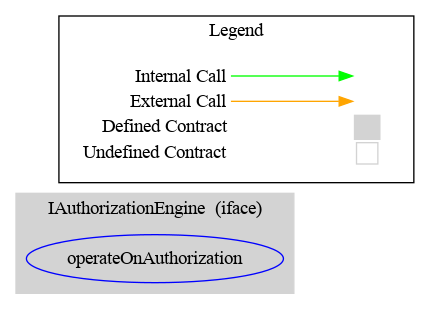
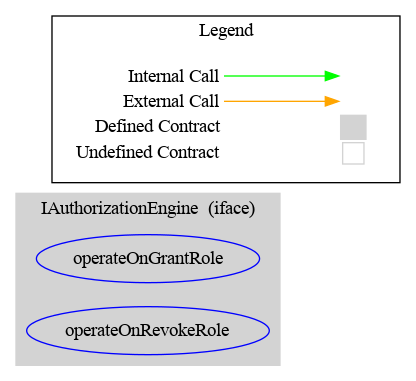
update doc

Changed region(s): [[0.0312, 0.0291, 0.9688, 0.9612], [0.1875, 0.3786, 0.5312, 0.4369], [0.8125, 0.5243, 0.875, 0.5534]]

diff --git a/test/common/ERC20BurnModuleCommon.js b/test/common/ERC20BurnModuleCommon.js
@@ -183,9 +183,9 @@ function ERC20BurnModuleCommon (admin, address1, address2, address3) {
       const AMOUNT_TO_MINT = BN(15)
       await this.cmtat.grantRole(BURNER_ROLE, address2, { from: admin })
       await this.cmtat.grantRole(MINTER_ROLE, address2, { from: admin })
-      //await this.cmtat.approve(address2, 50, { from: address1 })
+      // await this.cmtat.approve(address2, 50, { from: address1 })
       // Act
-      this.logs = await this.cmtat.burnAndMint(address1, address3, AMOUNT_TO_BURN, AMOUNT_TO_MINT, "recovery", { from: address2 })
+      this.logs = await this.cmtat.burnAndMint(address1, address3, AMOUNT_TO_BURN, AMOUNT_TO_MINT, 'recovery', { from: address2 })
       // Assert
       expectEvent(this.logs, 'Transfer', {
         from: address1,
@@ -197,12 +197,12 @@ function ERC20BurnModuleCommon (admin, address1, address2, address3) {
         to: address3,
         value: AMOUNT_TO_MINT
       })
-      
+
       expectEvent(this.logs, 'Burn', {
         owner: address1,
         value: AMOUNT_TO_BURN,
-        reason: "recovery" 
-      });
+        reason: 'recovery'
+      })
 
       expectEvent(this.logs, 'Mint', {
         account: address3,
@@ -218,10 +218,10 @@ function ERC20BurnModuleCommon (admin, address1, address2, address3) {
       const AMOUNT_TO_BURN = BN(20)
       const AMOUNT_TO_MINT = BN(15)
       await this.cmtat.grantRole(BURNER_ROLE, address2, { from: admin })
-      //await this.cmtat.approve(address2, 50, { from: address1 })
+      // await this.cmtat.approve(address2, 50, { from: address1 })
       // Act
       await expectRevertCustomError(
-        this.cmtat.burnAndMint(address1, address3, AMOUNT_TO_BURN, AMOUNT_TO_MINT, "recovery", { from: address2 }),
+        this.cmtat.burnAndMint(address1, address3, AMOUNT_TO_BURN, AMOUNT_TO_MINT, 'recovery', { from: address2 }),
         'AccessControlUnauthorizedAccount',
         [address2, MINTER_ROLE])
     })
@@ -231,15 +231,14 @@ function ERC20BurnModuleCommon (admin, address1, address2, address3) {
       const AMOUNT_TO_BURN = BN(20)
       const AMOUNT_TO_MINT = BN(15)
       await this.cmtat.grantRole(MINTER_ROLE, address2, { from: admin })
-      //await this.cmtat.approve(address2, 50, { from: address1 })
+      // await this.cmtat.approve(address2, 50, { from: address1 })
       // Assert
       await expectRevertCustomError(
-        this.cmtat.burnAndMint(address1, address3, AMOUNT_TO_BURN, AMOUNT_TO_MINT, "recovery", { from: address2 }),
+        this.cmtat.burnAndMint(address1, address3, AMOUNT_TO_BURN, AMOUNT_TO_MINT, 'recovery', { from: address2 }),
         'AccessControlUnauthorizedAccount',
         [address2, BURNER_ROLE])
     })
   })
-
 
   context('burnBatch', function () {
     const REASON = 'BURN_TEST'

diff --git a/test/common/AuthorizationModule/AuthorizationModuleSetAuthorizationEngineCommon.js b/test/common/AuthorizationModule/AuthorizationModuleSetAuthorizationEngineCommon.js
@@ -5,7 +5,7 @@ const {
 const { DEFAULT_ADMIN_ROLE } = require('../../utils.js')
 const { should } = require('chai').should()
 
-function AuthorizationModuleSetAuthorizationEngineCommon(admin, address1, authorizationEngine) {
+function AuthorizationModuleSetAuthorizationEngineCommon (admin, address1, authorizationEngine) {
   context('AuthorizationEngineSetTest', function () {
     it('testCanBeSetByAdminIfNotAlreadySet', async function () {
       // Act
@@ -48,7 +48,7 @@ function AuthorizationModuleSetAuthorizationEngineCommon(admin, address1, author
       // Arrange
       await this.authorizationEngineMock.authorizeAdminChange(address1)
       // Act
-      await this.cmtat.setAuthorizationEngine(this.authorizationEngineMock.address, { from: admin})
+      await this.cmtat.setAuthorizationEngine(this.authorizationEngineMock.address, { from: admin })
       // Assert
       this.logs = await this.cmtat.grantRole(DEFAULT_ADMIN_ROLE, address1, {
         from: admin
@@ -75,7 +75,7 @@ function AuthorizationModuleSetAuthorizationEngineCommon(admin, address1, author
       // Arrange
       await this.authorizationEngineMock.authorizeAdminChange(address1)
       // Act
-      await this.cmtat.setAuthorizationEngine(this.authorizationEngineMock.address, { from: admin})
+      await this.cmtat.setAuthorizationEngine(this.authorizationEngineMock.address, { from: admin })
       // Assert
       this.logs = await this.cmtat.revokeRole(DEFAULT_ADMIN_ROLE, address1, {
         from: admin
@@ -84,11 +84,11 @@ function AuthorizationModuleSetAuthorizationEngineCommon(admin, address1, author
       (await this.cmtat.hasRole(DEFAULT_ADMIN_ROLE, address1)).should.equal(false)
     })
 
-     // Mock
-     it('testCannotRevokeAdminIfNotAuthorizedByTheEngine', async function () {
+    // Mock
+    it('testCannotRevokeAdminIfNotAuthorizedByTheEngine', async function () {
       // Arrange
       await this.cmtat.setAuthorizationEngine(this.authorizationEngineMock.address, { from: admin })
-      await this.authorizationEngineMock.setRevokeAdminRoleAuthorized(false);
+      await this.authorizationEngineMock.setRevokeAdminRoleAuthorized(false)
       // Act
       await expectRevertCustomError(
         this.cmtat.revokeRole(DEFAULT_ADMIN_ROLE, address1, {

diff --git a/test/common/ValidationModule/ValidationModuleCommon.js b/test/common/ValidationModule/ValidationModuleCommon.js
@@ -39,7 +39,7 @@ function ValidationModuleCommon (
       (
         await this.cmtat.detectTransferRestriction(address1, address2, 11)
       ).should.be.bignumber.equal('0');
-       (await this.cmtat.validateTransfer(address1, address2, 11)).should.be.equal(true)
+      (await this.cmtat.validateTransfer(address1, address2, 11)).should.be.equal(true)
     })
 
     it('testCanReturnMessageValidTransfer', async function () {
@@ -59,8 +59,8 @@ function ValidationModuleCommon (
         )
       ).should.be.bignumber.equal('10');
 
-      (await this.cmtat.validateTransfer(address1, address2,  RULE_MOCK_AMOUNT_MAX + 1))
-      .should.be.equal(false)
+      (await this.cmtat.validateTransfer(address1, address2, RULE_MOCK_AMOUNT_MAX + 1))
+        .should.be.equal(false)
     })
 
     it('testCanReturnMessageWithAmountTooHigh', async function () {
@@ -80,8 +80,8 @@ function ValidationModuleCommon (
     // ADDRESS1 may transfer tokens to ADDRESS2
     it('testCanTransferAllowedByRule', async function () {
       const AMOUNT_TO_TRANSFER = 11;
-      // Act 
-      (await this.cmtat.validateTransfer(address1, address2, AMOUNT_TO_TRANSFER) ).should.be.equal(true)
+      // Act
+      (await this.cmtat.validateTransfer(address1, address2, AMOUNT_TO_TRANSFER)).should.be.equal(true)
       // Act
       await this.cmtat.transfer(address2, AMOUNT_TO_TRANSFER, {
         from: address1
@@ -102,7 +102,7 @@ function ValidationModuleCommon (
     it('testCannotTransferIfNotAllowedByRule', async function () {
       const AMOUNT_TO_TRANSFER = RULE_MOCK_AMOUNT_MAX + 1;
       // Act
-      (await this.cmtat.validateTransfer(address1, address2, AMOUNT_TO_TRANSFER) ).should.be.equal(false)
+      (await this.cmtat.validateTransfer(address1, address2, AMOUNT_TO_TRANSFER)).should.be.equal(false)
       // Act
       await expectRevertCustomError(
         this.cmtat.transfer(address2, AMOUNT_TO_TRANSFER, { from: address1 }),

diff --git a/test/proxy/general/Transparent.test.js b/test/proxy/general/Transparent.test.js
@@ -8,7 +8,7 @@ const CMTAT = artifacts.require('CMTAT_PROXY')
 const { DEFAULT_ADMIN_ROLE, PAUSER_ROLE, CMTAT_DEPLOYER_ROLE } = require('../../utils.js')
 const { ZERO_ADDRESS } = require('../../utils.js')
 const DECIMAL = 0
-const { deployCMTATProxy, DEPLOYMENT_FLAG, deployCMTATProxyImplementation,  } = require('../../deploymentUtils.js')
+const { deployCMTATProxy, DEPLOYMENT_FLAG, deployCMTATProxyImplementation } = require('../../deploymentUtils.js')
 const { upgrades } = require('hardhat')
 const DEPLOYMENT_DECIMAL = 0
 const { BN, expectEvent } = require('@openzeppelin/test-helpers')
@@ -22,7 +22,7 @@ contract(
 
     context('FactoryDeployment', function () {
       it('testCanReturnTheRightImplementation', async function () {
-         // Act + Assert
+        // Act + Assert
         (await this.FACTORY.logic()).should.equal(this.CMTAT_PROXY_IMPL.address)
       })
     })
@@ -45,7 +45,8 @@ contract(
             DEPLOYMENT_FLAG, { from: attacker }),
           'AccessControlUnauthorizedAccount',
           [attacker, CMTAT_DEPLOYER_ROLE]
-        )})
+        )
+      })
       // Here the argument to indicate if it is deployed with a proxy, set at false by the attacker
       it('testCanDeployCMTATWithFactory', async function () {
         // Act
@@ -67,7 +68,7 @@ contract(
         // Check  Id
         (this.logs.logs[1].args[1]).should.be.bignumber.equal(BN(0))
         const CMTAT_ADDRESS = this.logs.logs[1].args[0];
-        //Check address with ID
+        // Check address with ID
         (await this.FACTORY.getAddress(0)).should.equal(CMTAT_ADDRESS)
         const CMTAT_TRUFFLE = await CMTAT.at(CMTAT_ADDRESS)
         await CMTAT_TRUFFLE.mint(admin, 100, {

diff --git a/test/proxy/general/Beacon.test.js b/test/proxy/general/Beacon.test.js
@@ -21,14 +21,13 @@ contract(
 
     context('FactoryDeployment', function () {
       it('testCanReturnTheRightImplementation', async function () {
-         // Act + Assert
+        // Act + Assert
         (await this.FACTORY.implementation()).should.equal(this.CMTAT_PROXY_IMPL.address)
       })
-     
     })
 
     context('Deploy CMTAT with Factory', function () {
-    it('testCannotBeDeployedByAttacker', async function () {
+      it('testCannotBeDeployedByAttacker', async function () {
       // Act
         await expectRevertCustomError(
           this.FACTORY.deployCMTAT(
@@ -67,7 +66,7 @@ contract(
         (this.logs.logs[1].args[1]).should.be.bignumber.equal(BN(0))
         // Assert
         const CMTAT_ADDRESS = this.logs.logs[1].args[0];
-        //Check address with ID
+        // Check address with ID
         (await this.FACTORY.getAddress(0)).should.equal(CMTAT_ADDRESS)
         const CMTAT_TRUFFLE = await CMTAT.at(CMTAT_ADDRESS)
         // Act + Assert

diff --git a/test/common/PauseModuleCommon.js b/test/common/PauseModuleCommon.js
@@ -80,7 +80,7 @@ function PauseModuleCommon (admin, address1, address2, address3) {
       this.logs = await this.cmtat.unpause({ from: address1 });
 
       // Assert
-      (await this.cmtat.paused()).should.equal(false);
+      (await this.cmtat.paused()).should.equal(false)
       // emits a Unpaused event
       expectEvent(this.logs, 'Unpaused', { account: address1 })
       // Transfer works
@@ -104,7 +104,7 @@ function PauseModuleCommon (admin, address1, address2, address3) {
       // Act
       await this.cmtat.pause({ from: admin });
       // Act + Assert
-      (await this.cmtat.validateTransfer(address1, address2, AMOUNT_TO_TRANSFER) ).should.be.equal(false);
+      (await this.cmtat.validateTransfer(address1, address2, AMOUNT_TO_TRANSFER)).should.be.equal(false);
       // Assert
       (
         await this.cmtat.detectTransferRestriction(

diff --git a/test/common/ERC20SnapshotModuleCommon/ERC20SnapshotModuleUtils/ERC20SnapshotModuleUtils.js b/test/common/ERC20SnapshotModuleCommon/ERC20SnapshotModuleUtils/ERC20SnapshotModuleUtils.js
@@ -17,14 +17,13 @@ async function checkSnapshot (time, totalSupply, addresses, balances) {
     ).should.be.bignumber.equal(balances[i])
     await this.cmtat.getSnapshotInfoBatch(time, addresses[i])
     const { 0: ownerBalance, 1: totalSupplyGet } = await this.cmtat.getSnapshotInfoBatch(time, addresses[i])
-    //const [ownerBalance, totalSupplyGet] 
+    // const [ownerBalance, totalSupplyGet]
     ownerBalance.should.be.bignumber.equal(balances[i])
     totalSupplyGet.should.be.bignumber.equal(totalSupply)
   }
 }
 
 async function checkArraySnapshot (snapshots, snapshotsValue) {
-  
   for (let i = 0; i < snapshots.length; ++i) {
     snapshots[i].should.be.bignumber.equal(snapshotsValue[i])
   }

diff --git a/test/common/EnforcementModuleCommon.js b/test/common/EnforcementModuleCommon.js
@@ -105,7 +105,7 @@ function EnforcementModuleCommon (owner, address1, address2, address3) {
         from: address2
       });
       // Assert
-      (await this.cmtat.frozen(address1)).should.equal(false);
+      (await this.cmtat.frozen(address1)).should.equal(false)
       // emits an Unfreeze event
       expectEvent(this.logs, 'Unfreeze', {
         enforcer: address2,

diff --git a/test/common/AuthorizationModule/AuthorizationModuleCommon.js b/test/common/AuthorizationModule/AuthorizationModuleCommon.js
@@ -76,7 +76,5 @@ function AuthorizationModuleCommon (admin, address1, address2) {
       (await this.cmtat.hasRole(PAUSER_ROLE, address1)).should.equal(true)
     })
   })
-
-
 }
 module.exports = AuthorizationModuleCommon

diff --git a/test/deployment/deployment.test.js b/test/deployment/deployment.test.js
@@ -54,4 +54,4 @@ contract('CMTAT - Deployment', function ([_], deployer, address1, address2) {
       []
     )
   })
-  })
+})

diff --git a/doc/general/Engine.md b/doc/general/Engine.md
@@ -64,11 +64,23 @@ Main advantages :
 
 ### Implementation
 
-An **AuthorizationEngine** contract has to implement the interface `IAuthorizationEngine`. This interface defines mainly one function.
+An **AuthorizationEngine** contract has to implement the interface `IAuthorizationEngine`. This interface defines mainly twos functions, one to grant a Role and the other one to revole a role.
 
 ```solidity
-function operateOnAuthorization(bytes32 role, address account) 
-external returns (bool)
+    /**
+     * @dev Returns true if the operation is authorized, and false otherwise.
+     */
+    function operateOnGrantRole(
+        bytes32 role, address account
+    ) external returns (bool isValid);
+
+        /**
+     * @dev Returns true if the operation is authorized, and false otherwise.
+     */
+    function operateOnRevokeRole(
+        bytes32 role, address account
+    ) external returns (bool isValid);
+   
 ```
 
 ### Schema

diff --git a/doc/schema/surya_report/surya_report_AuthorizationEngineMock.sol.md b/doc/schema/surya_report/surya_report_AuthorizationEngineMock.sol.md
@@ -18,7 +18,9 @@
 | **AuthorizationEngineMock** | Implementation | IAuthorizationEngine |||
 | └ | <Constructor> | Public ❗ | 🛑  |NO❗ |
 | └ | authorizeAdminChange | External ❗ | 🛑  |NO❗ |
-| └ | operateOnAuthorization | External ❗ | 🛑  |NO❗ |
+| └ | setRevokeAdminRoleAuthorized | External ❗ | 🛑  |NO❗ |
+| └ | operateOnGrantRole | External ❗ | 🛑  |NO❗ |
+| └ | operateOnRevokeRole | External ❗ |   |NO❗ |
 
 
 ### Legend
